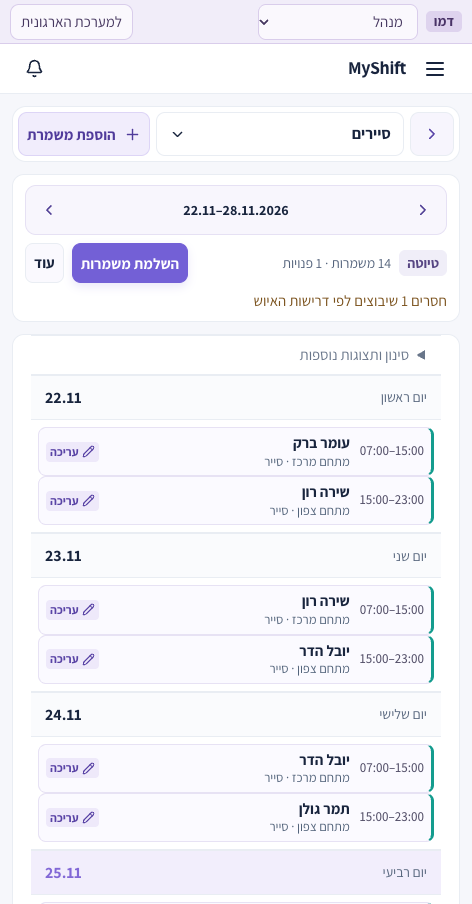
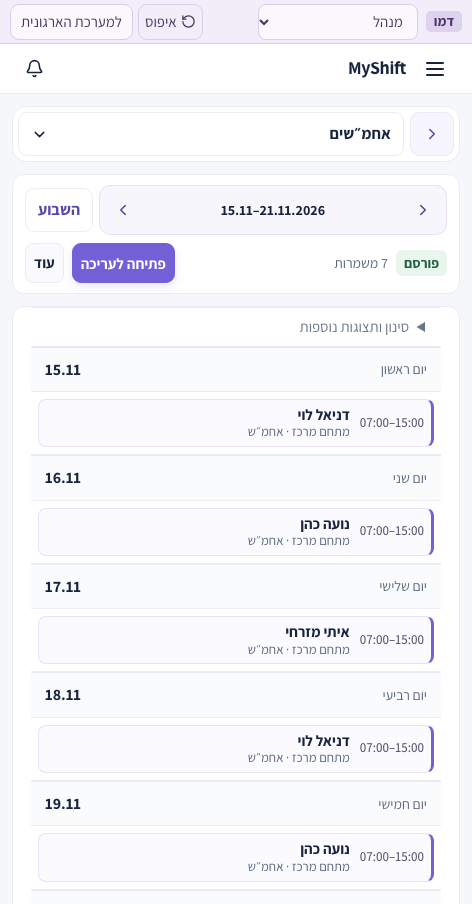
Refresh weekly board and demo controls documentation

diff --git a/README.md b/README.md
@@ -34,7 +34,7 @@ npm run dev
 
 ### תרגול ראשון כמנהל
 
-1. היכנסו לדמו ובחרו **מנהל** בפס הדמו בראש הדף. במסך **סידור עבודה** אפשר לעבור שבוע, לסנן לפי מחלקה או לראות רק משמרות פנויות ושיבוצים שדורשים בדיקה. בטלפון בוחרים גם יום.
+1. היכנסו לדמו ובחרו **מנהל** בפס הדמו בראש הדף. במסך **סידור עבודה** אפשר לעבור שבוע ולבחור בין כל המשמרות, משמרות פנויות, שיבוצים לבדיקה וטיוטות. בתצוגת הטלפון, סימון קטן ליד יום מציין משמרת פנויה או שיבוץ לבדיקה. כרטיס משמרת מציג את סיבת הבעיה ושינויים שממתינים לפרסום.
 2. לחצו **פנויות לשיבוץ**, פתחו את המשמרת הפנויה בסיירים ובחרו עובד זמין. לחצו **שמירה**. אפשר לבטל את הפעולה האחרונה מההודעה שמופיעה אחרי השמירה.
 3. לחצו **תכנון שבועי** בלוח. ברירת המחדל היא כל המחלקות שבניהולכם, ואפשר לבחור מחלקה אחת. פתחו מחלקה כדי לראות משמרות חדשות בירוק ומילוי משמרות פנויות בכחול. **אישור ושמירה כטיוטה** מחיל את ההצעה יחד על המחלקות שמופיעות בסקירה ומשמר את השיבוצים הקיימים.
 4. לחצו **סקירה ופרסום** בלוח כשמוכנים לפרסם. עברו על ההבדלים מול הפרסום הקודם, סמנו את המחלקות הרצויות ואשרו. בפתיחה לעריכה, העובדים ממשיכים לראות את הסידור האחרון שפורסם עד שתפרסמו את העדכון.
@@ -43,7 +43,7 @@ npm run dev
 
 ### צפייה כעובד וניהול צוות
 
-- **עובד בדמו** בוחר את שמו בפס הדמו. ב־**המשמרות שלי** מופיעים השיבוצים האישיים שפורסמו. כדי לראות פרסום לדוגמה בלי לפרסם בעצמכם, בחרו בדניאל לוי ועברו שבוע אחד אחורה בדמו חדש.
+- **עובד בדמו** בוחר את שמו בפס הדמו. ב־**המשמרות שלי** מופיעים השיבוצים האישיים שפורסמו. כדי לראות פרסום לדוגמה בלי לפרסם בעצמכם, בחרו בדניאל לוי ועברו שבוע אחד אחורה בדמו חדש. **איפוס דמו** בפס העליון מחזיר את הדמו לנקודת ההתחלה לאחר אישור.
 - **הפרופיל שלי** מרכז דיווחי זמינות והיעדרויות. בסביבת הארגון הגישה נקבעת לפי החשבון וההרשאות שלו.
 - **צוות** כולל חיפוש עובדים וסינון לפי מחלקה, תפקיד, מיקום והיעדרות בשבוע הנבחר. מכרטיס עובד אפשר לנהל הכשרות, זמינות והיעדרויות. בדמו מופיעים כאן גם תלושים ותזכורות לתרגול.
 - **הגדרות** כוללות מבנה ארגון, אתרים, תבניות שעות, דרישות איוש ויומן פעילות. אפשר לסנן את דרישות האיוש של מחלקה לפי יום, אתר ותפקיד. **התראות** נפתחות מהפעמון.
@@ -56,7 +56,7 @@ npm run dev
 | :---: | :---: | :---: |
 | <img src="docs/screenshots/roster-mobile.png" alt="לוח שבועי בטלפון עם בחירת יום ומחלקה" width="240"> | <img src="docs/screenshots/shift-editor-mobile.png" alt="עורך משמרת עם בחירת עובד ושמירה" width="240"> | <img src="docs/screenshots/employee-mobile.png" alt="סידור אישי שפורסם לעובד בדמו" width="240"> |
 
-[תכנון שבועי בטלפון](docs/screenshots/weekly-plan-mobile.png) · [סקירה ופרסום בטלפון](docs/screenshots/publication-review-mobile.png) · [סידור מחלקה בטלפון](docs/screenshots/department-mobile.png) · [שעות מותאמות](docs/screenshots/custom-hours-mobile.png) · [צוות בטלפון](docs/screenshots/team-mobile.png) · [הגדרות בטלפון](docs/screenshots/settings-mobile.png) · [תלושים ותזכורות](docs/screenshots/team-desk.png) · [דף הפתיחה במחשב](docs/screenshots/home-schedule-desktop.png) · [דף הפתיחה בטלפון](docs/screenshots/home-schedule-mobile.png)
+[שינויים ובעיות שיבוץ בלוח](docs/screenshots/board-status-mobile.png) · [תכנון שבועי בטלפון](docs/screenshots/weekly-plan-mobile.png) · [סקירה ופרסום בטלפון](docs/screenshots/publication-review-mobile.png) · [סידור מחלקה בטלפון](docs/screenshots/department-mobile.png) · [שעות מותאמות](docs/screenshots/custom-hours-mobile.png) · [צוות בטלפון](docs/screenshots/team-mobile.png) · [הגדרות בטלפון](docs/screenshots/settings-mobile.png) · [תלושים ותזכורות](docs/screenshots/team-desk.png) · [דף הפתיחה במחשב](docs/screenshots/home-schedule-desktop.png) · [דף הפתיחה בטלפון](docs/screenshots/home-schedule-mobile.png)
 
 ### משמרות בשבוע הראשון בדמו
 
